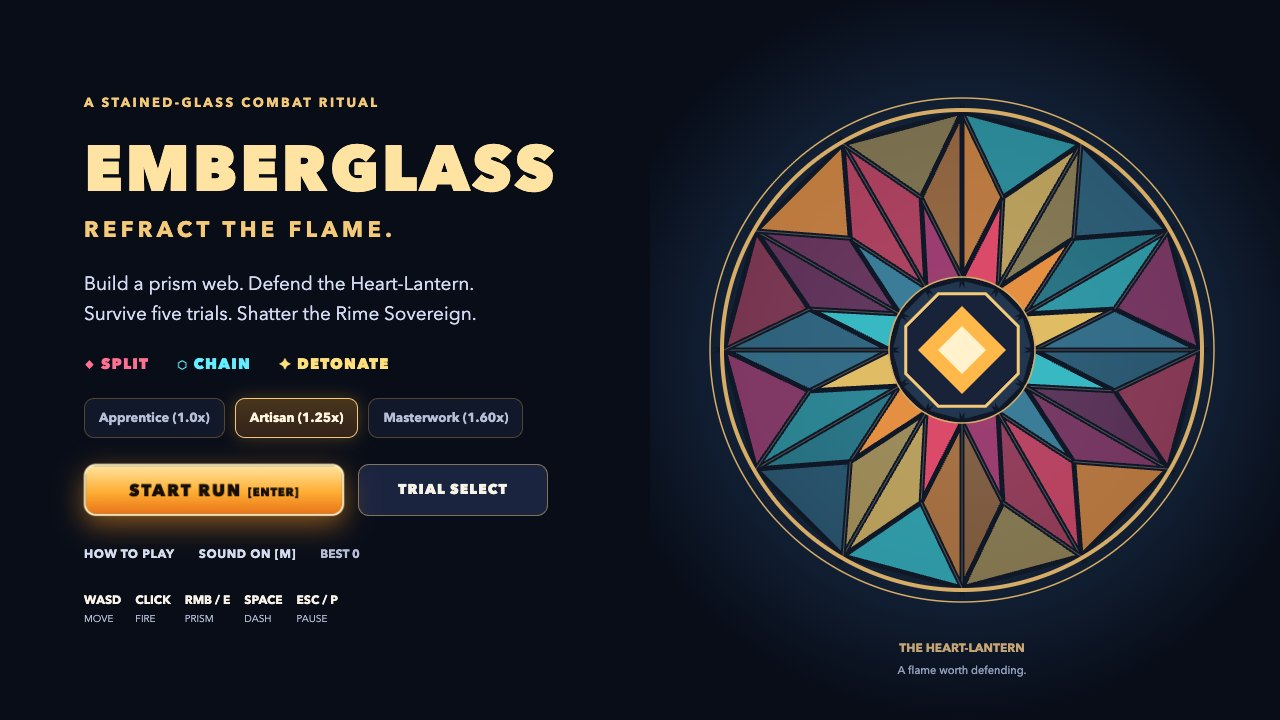
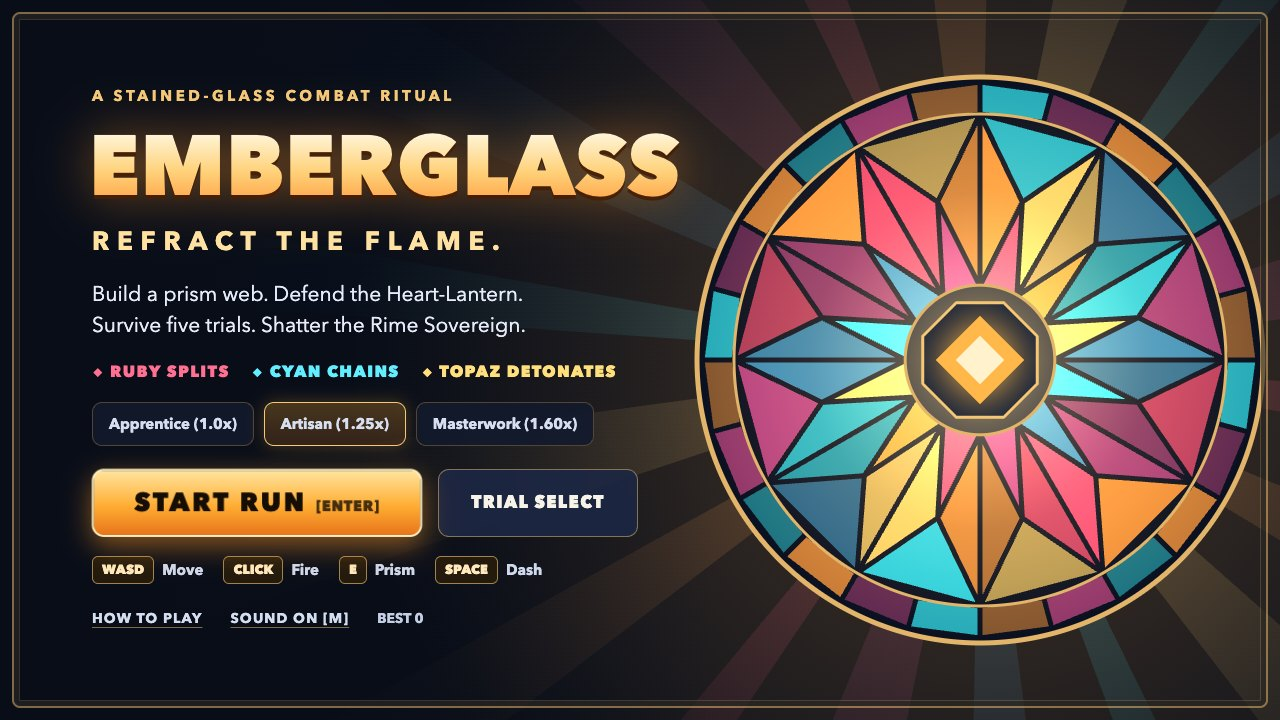
Unify menus under the stained-glass rose window and retake screenshots
Presentation only; no mechanics, balance or progression logic changed.
- Cover: larger wordmark, brighter rose window with coloured light rays,
  bigger Start prompt, readable keycap controls, tiny captions removed.
- Trial select, upgrade choice, victory and defeat are full-bleed screens
  over a shared rose-window backdrop inside one brass frame.
- Upgrade cards are colour-coded ruby/cyan/topaz with a route track.
- Results lead with a hero final score; HUD no longer draws behind menus.
- Screenshots 1, 3 and 4 recaptured from the tested Chrome run.

diff --git a/game/styles.css b/game/styles.css
@@ -484,6 +484,129 @@ button:focus-visible, input:focus-visible {
 .stats-grid .stat-label { font-size: 12px; }
 .stats-grid .stat-tile { padding: 14px; }
 
+/* Stained-glass menu system: full-bleed screens over the rose-window backdrop, inside one brass frame. */
+#overlay-root:not(:empty)::after {
+  content: ""; position: absolute; inset: 12px; pointer-events: none;
+  border: 2px solid rgba(226, 181, 106, 0.55); border-radius: 8px;
+  box-shadow: inset 0 0 0 5px rgba(8, 13, 24, 0.55), inset 0 0 0 6px rgba(226, 181, 106, 0.22);
+}
+#overlay-root[data-mode="paused"] { background: rgba(6, 9, 18, 0.4); }
+@media (min-width: 701px) {
+.overlay-screen.stained-menu {
+  position: absolute; inset: 0; width: auto; max-height: none; padding: 40px 64px;
+  border: 0; border-radius: 0; background: none; box-shadow: none; backdrop-filter: none;
+  justify-content: center; gap: 20px;
+}
+}
+.stained-menu .eyebrow-row { font-size: 15px; letter-spacing: .18em; }
+.stained-menu .best-pill { font-size: 15px; padding: 6px 16px; background: rgba(40, 28, 10, 0.9); }
+.stained-menu .result-heading { text-shadow: 0 3px 0 rgba(60, 28, 4, 0.9), 0 0 28px rgba(255, 170, 43, 0.5); }
+.stained-menu .game-subtitle { font-size: 19px; max-width: 940px; color: #eef2fc; text-shadow: 0 2px 8px #05070d; }
+.stained-menu .cta-row > button { min-height: 60px; font-size: 17px; }
+.stained-menu .cta-row > .btn-primary { font-size: 22px; padding: 12px 44px; }
+
+/* Title cover */
+.title-screen { padding: 48px 72px; }
+.title-copy { width: 620px; gap: 19px; }
+.title-screen .eyebrow-row { font-size: 15px; letter-spacing: .24em; }
+.title-screen .game-title {
+  font-size: 84px; letter-spacing: .01em; line-height: 1.05; margin-left: -3px; white-space: nowrap; width: max-content;
+  background: linear-gradient(180deg, #fff6dc 8%, #ffd27b 52%, #ff9a3d 96%);
+  -webkit-background-clip: text; background-clip: text; color: transparent;
+  filter: drop-shadow(0 4px 0 rgba(70, 30, 4, 0.9)) drop-shadow(0 0 26px rgba(255, 150, 40, 0.45));
+}
+.title-mantra { margin: 10px 0 0; font-size: 26px; letter-spacing: .3em; color: #ffe3a3; }
+.title-goal { font-size: 21px; line-height: 1.5; color: #e6ecfa; }
+.prism-legend { gap: 22px; font-size: 16px; }
+.title-screen .diff-btn { font-size: 15px; min-height: 44px; padding: 8px 16px; color: #d6deef; }
+.title-screen .cta-row { gap: 16px; margin-top: 4px; }
+.title-screen .btn-primary { min-width: 330px; min-height: 68px; font-size: 26px; }
+.title-screen .btn-primary small { font-size: 15px; opacity: .8; }
+.title-screen .btn-secondary { min-width: 200px; min-height: 68px; font-size: 17px; }
+.title-controls { flex-wrap: nowrap; gap: 20px; font-size: 15px; font-weight: 700; color: #cfd8ec; }
+.title-controls span { flex-direction: row; align-items: center; gap: 8px; }
+.title-controls b, .tempering-pick-hint kbd {
+  font: inherit; font-size: 13px; font-weight: 800; color: #ffe9bd; padding: 4px 9px;
+  border: 1.5px solid rgba(244, 201, 121, 0.6); border-radius: 6px; background: rgba(40, 28, 10, 0.85);
+}
+.title-utility { gap: 28px; font-size: 14px; color: #c3cde3; }
+.text-button { font-size: 14px; letter-spacing: .08em; text-decoration: underline; text-underline-offset: 4px; text-decoration-color: rgba(244, 201, 121, 0.5); }
+
+/* Upgrade choice */
+.upgrade-screen { gap: 18px; }
+.upgrade-screen .result-heading { font-size: 60px; letter-spacing: .05em; }
+.upgrade-screen .draft-grid { gap: 20px; }
+.upgrade-screen .tempering-card {
+  --glass: var(--brass-bright); position: relative; padding: 26px 26px 22px; min-height: 0; gap: 16px;
+  background: linear-gradient(180deg, #1c2744 0%, #0e1426 100%);
+  border: 2px solid var(--glass); border-top-width: 10px; border-radius: 14px;
+  box-shadow: 0 14px 34px rgba(0, 0, 0, 0.6), inset 0 0 44px color-mix(in srgb, var(--glass) 14%, transparent);
+}
+.tempering-card.glass-ruby { --glass: #ff5a80; }
+.tempering-card.glass-cyan { --glass: #2fe0f2; }
+.tempering-card.glass-topaz { --glass: #ffd152; }
+.upgrade-screen .tempering-tag { font-size: 15px; letter-spacing: .16em; color: var(--glass); }
+.upgrade-screen .tempering-name { font-size: 27px; margin: 6px 0 0; color: #fff3d6; }
+.upgrade-screen .tempering-effect { margin: 12px 0; }
+.upgrade-screen .tempering-effect strong { font-size: 72px; color: var(--glass); text-shadow: 0 0 26px color-mix(in srgb, var(--glass) 45%, transparent); }
+.upgrade-screen .tempering-effect span { font-size: 24px; color: #fff5dc; }
+.upgrade-screen .tempering-desc { font-size: 16px; color: #d5ddf0; }
+.upgrade-screen .tempering-pick-hint {
+  display: flex; align-items: center; justify-content: center; gap: 10px; font-size: 16px; letter-spacing: .1em;
+  color: #160e04; background: var(--glass); border-radius: 9px; padding: 11px 12px;
+}
+.tempering-pick-hint kbd { color: #fff3d6; background: rgba(14, 20, 38, 0.9); border-color: transparent; }
+.upgrade-route { gap: 0; font-size: 15px; letter-spacing: .08em; color: #b4c0da; }
+.upgrade-route span { display: flex; align-items: center; gap: 9px; padding: 7px 16px 7px 8px; border-radius: 999px; border: 1.5px solid #3a4662; background: rgba(12, 18, 32, 0.92); }
+.upgrade-route b { display: grid; place-items: center; width: 28px; height: 28px; border-radius: 50%; background: #2a3550; color: #dbe3f8; font-size: 15px; }
+.upgrade-route .done { color: #7af0d0; border-color: #2f9a84; }
+.upgrade-route .done b { background: #38e2b2; color: #06231b; }
+.upgrade-route .upcoming { color: #ffe3a3; border-color: #ffd27b; }
+.upgrade-route .upcoming b { background: #ffd27b; color: #2a1804; }
+.upgrade-route i { width: 30px; height: 2px; background: #56627c; }
+
+/* Trial select */
+.progression-screen { gap: 20px; }
+.progression-screen .result-heading { font-size: 60px; letter-spacing: .06em; color: #ffe3a3; }
+.trial-route { gap: 14px; }
+.trial-node { padding: 20px 18px; border-width: 2px; border-top-width: 8px; border-radius: 12px; background: #131c31; box-shadow: 0 12px 30px rgba(0, 0, 0, 0.55); }
+.trial-node.next { padding: 20px 18px; border-top-width: 8px; background: #33281a; box-shadow: 0 0 34px rgba(255, 190, 80, 0.35); }
+.trial-node.boss-node:not(:disabled) { border-color: #ff6f92; }
+.trial-state { font-size: 14px; }
+.trial-number { font-size: 56px; }
+.trial-challenge { font-size: 15px; }
+.trial-record small { font-size: 12px; }
+.trial-enter { font-size: 13px; letter-spacing: .08em; }
+.progression-screen .relic-strip { font-size: 15px; }
+
+/* Victory and defeat */
+.results-screen { gap: 14px; }
+.results-screen .result-banner { gap: 6px; }
+.results-screen .result-banner .result-heading { font-size: 104px; line-height: 1; letter-spacing: .1em; margin-right: -.1em; }
+.results-screen .result-heading.victory { color: #fff3cf; text-shadow: 0 5px 0 #6a3206, 0 0 44px rgba(255, 170, 43, 0.9), 0 0 6px #2a1202; }
+.results-screen .result-banner .result-heading.defeat { font-size: 66px; letter-spacing: .06em; margin-right: 0; color: #ff7f9b; text-shadow: 0 4px 0 #3d0716, 0 0 30px rgba(255, 62, 108, 0.55); }
+.results-screen .stars-row { font-size: 46px; text-shadow: 0 3px 0 #6a3206; }
+.score-hero {
+  align-self: center; min-width: 470px; padding: 10px 40px 12px; text-align: center; border-radius: 14px;
+  border: 2px solid var(--brass-bright); background: linear-gradient(180deg, rgba(48, 32, 10, 0.95), rgba(20, 14, 8, 0.96));
+  box-shadow: 0 0 40px rgba(255, 170, 43, 0.3);
+}
+.score-hero .stat-label { font-size: 15px; letter-spacing: .22em; color: var(--brass-bright); }
+.score-hero .stat-value { font-size: 76px; line-height: 1.05; color: #fff5dc; font-variant-numeric: tabular-nums; }
+.is-defeat .score-hero { border-color: #7d8bb0; background: rgba(14, 20, 38, 0.95); box-shadow: none; }
+.is-defeat .score-hero .stat-label { color: #b6bfd8; }
+.results-screen .stats-grid { grid-template-columns: repeat(5, 1fr); gap: 12px; }
+.results-screen .stats-grid .stat-tile { padding: 10px 8px; background: rgba(14, 20, 38, 0.94); border: 1.5px solid rgba(244, 201, 121, 0.4); }
+.results-screen .stats-grid .stat-value { font-size: 32px; }
+.results-screen .stats-grid .stat-label { font-size: 12px; text-align: center; }
+.results-screen .relic-chip { font-size: 14px; padding: 5px 14px; background: rgba(8, 40, 52, 0.94); }
+
+/* Pause and codex dialogs keep a boxed panel over the veiled arena. */
+.pause-screen, .overlay-screen.compact-modal { background: linear-gradient(180deg, #172039 0%, #0b101f 100%); backdrop-filter: none; }
+.pause-screen .result-heading { font-size: 48px; letter-spacing: .08em; }
+.codex-columns { font-size: 16px; line-height: 1.5; }
+.codex-box h3 { font-size: 17px; }
+
 @media (prefers-reduced-motion: reduce) {
   button { transition: none !important; }
 }
@@ -493,6 +616,15 @@ button:focus-visible, input:focus-visible {
   #overlay-root { padding: 12px; }
   .overlay-screen, .overlay-screen.compact-modal, .overlay-screen.title-screen { width: 100%; max-height: 96%; padding: 24px 16px; overflow-y: auto; gap: 20px; }
   .title-screen { height: auto; }
+  .overlay-screen.stained-menu { background: rgba(8, 13, 24, 0.7); border: 0; box-shadow: none; }
+  .title-screen .game-title { white-space: normal; }
+  .results-screen .stats-grid { grid-template-columns: repeat(2, 1fr); }
+  .score-hero { min-width: 0; align-self: stretch; }
+  .score-hero .stat-value, .upgrade-screen .tempering-effect strong { font-size: 48px; }
+  .results-screen .result-banner .result-heading, .results-screen .result-banner .result-heading.defeat { font-size: 40px; }
+  .title-screen .btn-primary, .title-screen .btn-secondary { min-width: 0; }
+  .title-controls { flex-wrap: wrap; }
+  .upgrade-route i { width: 8px; }
   .title-copy { width: 100%; gap: 24px; }
   .title-screen .game-title { font-size: clamp(25px, 8vw, 52px); }
   .title-mantra { font-size: 16px; letter-spacing: .1em; }

diff --git a/game/src/render.js b/game/src/render.js
@@ -1010,54 +1010,109 @@ function renderWingHud(ctx, world, saveData, audioMuted) {
   ctx.restore();
 }
 
-// The title's rose window is original live Canvas geometry, built from the combat palette.
+// The rose window is original live Canvas geometry, built from the combat palette.
+// It is the game's emblem: lit on the title, and a dimmer backdrop behind every menu.
+const ROSE_GLASS_COLORS = ['#ff4f74', '#ff9a3d', '#ffd166', '#2fd6e3', '#3d8fb8', '#b8437f'];
+
+function fillGlassPane(ctx, vertices, color, alpha) {
+  ctx.beginPath();
+  vertices.forEach(([x, y], k) => (k ? ctx.lineTo(x, y) : ctx.moveTo(x, y)));
+  ctx.closePath();
+  ctx.globalAlpha = alpha; ctx.fillStyle = color; ctx.fill();
+  ctx.globalAlpha = 1; ctx.strokeStyle = '#0b1120'; ctx.lineWidth = 5; ctx.lineJoin = 'round'; ctx.stroke();
+}
+
+function drawRoseWindow(ctx, cx, cy, radius, time) {
+  const inner = radius * 0.3, mid = radius * 0.665, band = radius * 1.13;
+  const point = (angle, r) => [Math.cos(angle) * r, Math.sin(angle) * r];
+  ctx.save(); ctx.translate(cx, cy);
+  ctx.beginPath(); ctx.arc(0, 0, band + 6, 0, Math.PI * 2); ctx.fillStyle = '#0b1120'; ctx.fill();
+  for (let i = 0; i < 24; i++) {
+    const a = i * Math.PI / 12 - Math.PI / 2, b = a + Math.PI / 12;
+    fillGlassPane(ctx, [point(a, radius), point(a, band), point(b, band), point(b, radius)],
+      ROSE_GLASS_COLORS[(i * 2 + 3) % 6], i % 2 ? 0.5 : 0.78);
+  }
+  for (let i = 0; i < 12; i++) {
+    const a = i * Math.PI / 6 - Math.PI / 2, b = a + Math.PI / 6, m = (a + b) / 2;
+    const panes = [
+      [point(a, inner), point(m, mid), point(b, inner)],
+      [point(a, inner), point(a, radius), point(m, mid)],
+      [point(b, inner), point(m, mid), point(b, radius)],
+      [point(a, radius), point(m, mid), point(b, radius)],
+    ];
+    panes.forEach((vertices, j) => fillGlassPane(ctx, vertices, ROSE_GLASS_COLORS[(i + j) % 6],
+      j === 0 ? 1 : 0.8 + Math.sin(i * 3 + j) * 0.16));
+  }
+  // Lantern light floods the glass from the centre outward.
+  const flood = ctx.createRadialGradient(0, 0, inner * 0.5, 0, 0, band);
+  flood.addColorStop(0, 'rgba(255, 226, 160, 0.42)'); flood.addColorStop(0.55, 'rgba(255, 190, 110, 0.12)'); flood.addColorStop(1, 'rgba(255, 190, 110, 0)');
+  ctx.globalCompositeOperation = 'lighter';
+  ctx.beginPath(); ctx.arc(0, 0, band, 0, Math.PI * 2); ctx.fillStyle = flood; ctx.fill();
+  ctx.globalCompositeOperation = 'source-over';
+  for (const [r, w] of [[band + 5, 5], [radius, 3], [inner + 1, 3]]) {
+    ctx.beginPath(); ctx.arc(0, 0, r, 0, Math.PI * 2); ctx.strokeStyle = '#e2b56a'; ctx.lineWidth = w; ctx.stroke();
+  }
+  // The Heart-Lantern floats in the window's central, brass-set aperture.
+  drawPolygon(ctx, 0, 0, inner * 0.84, 8, Math.PI / 8); ctx.fillStyle = '#182339'; ctx.fill(); ctx.strokeStyle = '#f4c979'; ctx.lineWidth = 3; ctx.stroke();
+  const pulse = 1 + Math.sin(time * 2) * 0.025;
+  ctx.shadowColor = '#ffb849'; ctx.shadowBlur = radius * 0.16;
+  drawPolygon(ctx, 0, 0, inner * 0.6 * pulse, 4, 0); ctx.fillStyle = '#ffb849'; ctx.fill();
+  ctx.shadowBlur = 0;
+  drawPolygon(ctx, 0, 0, inner * 0.33, 4, 0); ctx.fillStyle = '#fff2cd'; ctx.fill();
+  ctx.restore();
+}
+
+// Coloured light thrown by the window: soft wedges of each glass hue plus a warm halo.
+function drawRoseLightRays(ctx, cx, cy, reach, strength) {
+  ctx.save(); ctx.globalCompositeOperation = 'lighter';
+  for (let i = 0; i < 18; i++) {
+    const a = i * Math.PI / 9 + 0.12, half = 0.05 + (i % 3) * 0.022;
+    const ray = ctx.createRadialGradient(cx, cy, reach * 0.22, cx, cy, reach);
+    ray.addColorStop(0, ROSE_GLASS_COLORS[i % 6]); ray.addColorStop(1, 'rgba(0, 0, 0, 0)');
+    ctx.globalAlpha = strength; ctx.fillStyle = ray;
+    ctx.beginPath(); ctx.moveTo(cx, cy);
+    ctx.lineTo(cx + Math.cos(a - half) * reach, cy + Math.sin(a - half) * reach);
+    ctx.lineTo(cx + Math.cos(a + half) * reach, cy + Math.sin(a + half) * reach);
+    ctx.closePath(); ctx.fill();
+  }
+  const halo = ctx.createRadialGradient(cx, cy, 0, cx, cy, reach * 0.7);
+  halo.addColorStop(0, 'rgba(255, 170, 70, 1)'); halo.addColorStop(1, 'rgba(255, 170, 70, 0)');
+  ctx.globalAlpha = strength * 1.6; ctx.fillStyle = halo; ctx.fillRect(0, 0, ARENA.width, ARENA.height);
+  ctx.restore();
+}
+
 function renderTitleStainedGlass(ctx, world) {
   ctx.fillStyle = '#080d18';
   ctx.fillRect(0, 0, ARENA.width, ARENA.height);
-  const cx = 962, cy = 350, radius = 238;
-  const halo = ctx.createRadialGradient(cx, cy, 40, cx, cy, 370);
-  halo.addColorStop(0, '#253953'); halo.addColorStop(.65, '#111e32'); halo.addColorStop(1, '#080d18');
-  ctx.fillStyle = halo; ctx.fillRect(650, 0, 630, 720);
-  const colors = ['#e64b6b', '#ef9442', '#eac366', '#38bfc9', '#3c819d', '#a13e72'];
-  ctx.save(); ctx.translate(cx, cy);
-  ctx.strokeStyle = '#101827'; ctx.lineWidth = 5;
-  for (let i = 0; i < 12; i++) {
-    const a = i * Math.PI / 6 - Math.PI / 2;
-    const b = a + Math.PI / 6;
-    const mid = (a + b) / 2;
-    const point = (angle, r) => [Math.cos(angle) * r, Math.sin(angle) * r];
-    const polygons = [
-      [point(a, 72), point(mid, 158), point(b, 72)],
-      [point(a, 72), point(a, radius), point(mid, 158)],
-      [point(b, 72), point(mid, 158), point(b, radius)],
-      [point(a, radius), point(mid, 158), point(b, radius)],
-    ];
-    polygons.forEach((vertices, j) => {
-      ctx.beginPath(); vertices.forEach(([x, y], k) => k ? ctx.lineTo(x, y) : ctx.moveTo(x, y)); ctx.closePath();
-      ctx.fillStyle = colors[(i + j) % colors.length]; ctx.globalAlpha = j === 0 ? .95 : .62 + Math.sin(i * 3 + j) * .15;
-      ctx.fill(); ctx.globalAlpha = 1; ctx.stroke();
-      ctx.beginPath(); ctx.moveTo(...vertices[0]); ctx.lineTo(...vertices[1]);
-      ctx.strokeStyle = 'rgba(255, 239, 196, .28)'; ctx.lineWidth = 1; ctx.stroke();
-      ctx.strokeStyle = '#101827'; ctx.lineWidth = 5;
-    });
-  }
-  for (const r of [radius + 2, radius + 14, 73]) {
-    ctx.beginPath(); ctx.arc(0, 0, r, 0, Math.PI * 2); ctx.strokeStyle = '#d6ac67'; ctx.lineWidth = r === radius + 2 ? 4 : 1.5; ctx.stroke();
-  }
-  // The Heart-Lantern floats in the window's central, brass-set aperture.
-  drawPolygon(ctx, 0, 0, 61, 8, Math.PI / 8); ctx.fillStyle = '#182339'; ctx.fill(); ctx.strokeStyle = '#f4c979'; ctx.lineWidth = 3; ctx.stroke();
-  const pulse = 1 + Math.sin(world.time * 2) * .025;
-  drawPolygon(ctx, 0, 0, 44 * pulse, 4, 0); ctx.fillStyle = '#ffb849'; ctx.fill();
-  drawPolygon(ctx, 0, 0, 24, 4, 0); ctx.fillStyle = '#fff2cd'; ctx.fill();
-  ctx.restore();
-  ctx.font = '700 12px "Avenir Next", "Segoe UI", sans-serif'; ctx.textAlign = 'center'; ctx.fillStyle = '#c6a574';
-  ctx.fillText('THE HEART-LANTERN', cx, 652);
-  ctx.font = '500 11px "Avenir Next", "Segoe UI", sans-serif'; ctx.fillStyle = '#8f9eba';
-  ctx.fillText('A flame worth defending.', cx, 674); ctx.textAlign = 'left';
+  drawRoseLightRays(ctx, 980, 360, 900, 0.16);
+  // Keep the wordmark side calm.
+  const calm = ctx.createLinearGradient(0, 0, 720, 0);
+  calm.addColorStop(0, 'rgba(8, 13, 24, 0.82)'); calm.addColorStop(1, 'rgba(8, 13, 24, 0)');
+  ctx.fillStyle = calm; ctx.fillRect(0, 0, 720, ARENA.height);
+  drawRoseWindow(ctx, 980, 360, 246, world.time);
+}
+
+// Menus share the title's window as a backdrop; its light tells the result at a glance.
+const MENU_BACKDROPS = {
+  trials: { cy: 360, radius: 330, light: 0.11, veil: 'rgba(8, 13, 24, 0.66)' },
+  tempering: { cy: 360, radius: 330, light: 0.12, veil: 'rgba(8, 13, 24, 0.62)' },
+  victory: { cy: 215, radius: 250, light: 0.26, veil: 'rgba(12, 12, 20, 0.34)' },
+  gameover: { cy: 215, radius: 250, light: 0.05, veil: 'rgba(16, 22, 50, 0.80)' },
+};
+
+function renderMenuBackdrop(ctx, world) {
+  const look = MENU_BACKDROPS[world.mode];
+  ctx.fillStyle = '#080d18';
+  ctx.fillRect(0, 0, ARENA.width, ARENA.height);
+  drawRoseLightRays(ctx, ARENA.width / 2, look.cy, 980, look.light);
+  drawRoseWindow(ctx, ARENA.width / 2, look.cy, look.radius, world.time);
+  ctx.fillStyle = look.veil;
+  ctx.fillRect(0, 0, ARENA.width, ARENA.height);
 }
 
 export function renderGameFrame(ctx, world, effects, inputState, saveData, audioMuted) {
   if (world.mode === 'title') { renderTitleStainedGlass(ctx, world); return; }
+  if (MENU_BACKDROPS[world.mode]) { renderMenuBackdrop(ctx, world); return; }
   ctx.save();
   ctx.translate(effects.shakeX, effects.shakeY);
 
@@ -1076,5 +1131,6 @@ export function renderGameFrame(ctx, world, effects, inputState, saveData, audio
     ctx.restore();
   }
 
-  renderWingHud(ctx, world, saveData, audioMuted);
+  // Paused: the frozen arena stays visible under the dialog's veil, without HUD fragments.
+  if (world.mode === 'playing') renderWingHud(ctx, world, saveData, audioMuted);
 }

diff --git a/game/src/menus.js b/game/src/menus.js
@@ -126,18 +126,18 @@ export function createGameMenus(rootEl, handlers) {
             <p class="title-mantra">REFRACT THE FLAME.</p>
           </header>
           <p class="title-goal">Build a prism web. Defend the Heart-Lantern.<br>Survive five trials. Shatter the Rime Sovereign.</p>
-          <div class="prism-legend"><span class="ruby">◆ SPLIT</span><span class="cyan">⬡ CHAIN</span><span class="topaz">✦ DETONATE</span></div>
+          <div class="prism-legend"><span class="ruby">◆ RUBY SPLITS</span><span class="cyan">◆ CYAN CHAINS</span><span class="topaz">◆ TOPAZ DETONATES</span></div>
           <div class="difficulty-bar" role="group" aria-label="Select Difficulty">${diffButtons}</div>
           <div class="cta-row">
             <button class="btn-primary" id="btn-start-run" data-action="start-run" data-focus-first>START RUN <small>[ENTER]</small></button>
             <button class="btn-secondary" data-action="open-trials">TRIAL SELECT</button>
           </div>
+          <div class="title-controls" aria-label="Controls"><span><b>WASD</b> Move</span><span><b>CLICK</b> Fire</span><span><b>E</b> Prism</span><span><b>SPACE</b> Dash</span></div>
           <div class="title-utility">
             <button class="text-button" data-action="open-codex">HOW TO PLAY</button>
             <button class="text-button" data-action="toggle-mute">${audioMuted ? 'SOUND OFF [M]' : 'SOUND ON [M]'}</button>
-            <span>BEST ${saveData.bestScore.toLocaleString('en-US')}</span>
+            <span class="title-best">BEST ${saveData.bestScore.toLocaleString('en-US')}</span>
           </div>
-          <div class="title-controls"><span><b>WASD</b> MOVE</span><span><b>CLICK</b> FIRE</span><span><b>RMB / E</b> PRISM</span><span><b>SPACE</b> DASH</span><span><b>ESC / P</b> PAUSE</span></div>
         </div>
       </section>
     `;
@@ -148,21 +148,21 @@ export function createGameMenus(rootEl, handlers) {
     const cardsHtml = world.draftChoices
       .map(
         (choice, index) => `
-        <button class="tempering-card" data-tempering="${choice.id}">
+        <button class="tempering-card ${['glass-ruby', 'glass-cyan', 'glass-topaz'][index % 3]}" data-tempering="${choice.id}">
           <div>
             <div class="tempering-tag">${escapeHtml(choice.tag)}</div>
             <div class="tempering-name">${escapeHtml(choice.name)}</div>
             <div class="tempering-effect"><strong>${escapeHtml(choice.effect.split(' ')[0])}</strong><span>${escapeHtml(choice.effect.split(' ').slice(1).join(' '))}</span></div>
             <div class="tempering-desc">${escapeHtml(choice.desc)}</div>
           </div>
-          <div class="tempering-pick-hint">FORGE RELIC [${index + 1}]</div>
+          <div class="tempering-pick-hint">FORGE RELIC <kbd>${index + 1}</kbd></div>
         </button>
       `,
       )
       .join('');
 
     rootEl.innerHTML = `
-      <section class="overlay-screen upgrade-screen" aria-label="Choose an upgrade">
+      <section class="overlay-screen stained-menu upgrade-screen" aria-label="Choose an upgrade">
         <div class="eyebrow-row">
           <span>TRIAL ${world.trialIndex} CLEARED · KILN FORGE</span>
           <span class="best-pill">SCORE: ${world.score.toLocaleString('en-US')}</span>
@@ -174,7 +174,7 @@ export function createGameMenus(rootEl, handlers) {
         <div class="draft-grid">
           ${cardsHtml}
         </div>
-        <div class="upgrade-route" aria-label="Run route">${[1,2,3,4,5].map(n => `<span class="${n <= world.trialIndex ? 'done' : ''}">${String(n).padStart(2, '0')} ${n <= world.trialIndex ? 'CLEARED' : n === world.trialIndex + 1 ? 'NEXT' : n === 5 ? 'BOSS' : 'LOCKED'}</span>`).join('<i>→</i>')}</div>
+        <div class="upgrade-route" aria-label="Run route">${[1,2,3,4,5].map(n => `<span class="${n <= world.trialIndex ? 'done' : n === world.trialIndex + 1 ? 'upcoming' : ''}"><b>${n <= world.trialIndex ? '✓' : n}</b>${n <= world.trialIndex ? 'CLEARED' : n === world.trialIndex + 1 ? 'NEXT' : n === 5 ? 'BOSS' : 'LOCKED'}</span>`).join('<i></i>')}</div>
       </section>
     `;
     bindCommonButtons();
@@ -219,7 +219,7 @@ export function createGameMenus(rootEl, handlers) {
         : '<span class="relic-chip">No Temperings Forged</span>';
 
     rootEl.innerHTML = `
-      <section class="overlay-screen compact-modal" aria-label="${isVictory ? 'Victory Summary' : 'Defeat Summary'}">
+      <section class="overlay-screen stained-menu results-screen ${isVictory ? 'is-victory' : 'is-defeat'}" aria-label="${isVictory ? 'Victory Summary' : 'Defeat Summary'}">
         <div class="eyebrow-row">
           <span>${isVictory ? (world.runStartTrial === 1 ? 'ALL 5 KILN TRIALS CONQUERED' : 'THE RIME SOVEREIGN DEFEATED') : `FALLEN ON TRIAL ${world.trialIndex} OF 5`}</span>
           <span class="best-pill">${world.isNewBest ? '★ NEW HIGH SCORE! ★' : `BEST: ${saveData.bestScore.toLocaleString('en-US')}`}</span>
@@ -239,11 +239,12 @@ export function createGameMenus(rootEl, handlers) {
           </p>
         </div>
 
+        <div class="score-hero">
+          <div class="stat-label">Final Score</div>
+          <div class="stat-value">${world.score.toLocaleString('en-US')}</div>
+        </div>
+
         <div class="stats-grid">
-          <div class="stat-tile">
-            <div class="stat-value">${world.score.toLocaleString('en-US')}</div>
-            <div class="stat-label">Final Score</div>
-          </div>
           <div class="stat-tile">
             <div class="stat-value">${formatComboMultiplier(world.stats.maxCombo)}</div>
             <div class="stat-label">Peak Multiplier</div>

diff --git a/game/src/trial-select.js b/game/src/trial-select.js
@@ -21,7 +21,7 @@ export function renderTrialSelectScreen(world, save) {
       <span class="trial-enter">${next ? 'ENTER TRIAL →' : enabled ? record.cleared ? 'REPLAY TRIAL →' : 'ENTER TRIAL →' : record.cleared ? 'TRIAL CLEARED' : 'CLEAR TRIAL ' + i}</span>
     </button>`;
   }).join('');
-  return `<section class="overlay-screen progression-screen" aria-label="Trial select and progression">
+  return `<section class="overlay-screen stained-menu progression-screen" aria-label="Trial select and progression">
     <div class="eyebrow-row"><span>${DIFFICULTY_MODES[world.difficulty].label.toUpperCase()} · FIVE KILN TRIALS</span><span>${records.filter(t => t.cleared).length} / 5 CLEARED</span></div>
     <header class="hero-header"><h2 class="result-heading">TRIAL SELECT</h2>
       <p class="game-subtitle">${world.pendingTrial ? 'Your relic is forged. The next trial awaits.' : 'Clear each trial to unlock the next. Forge a relic after every clear.'}</p></header>
